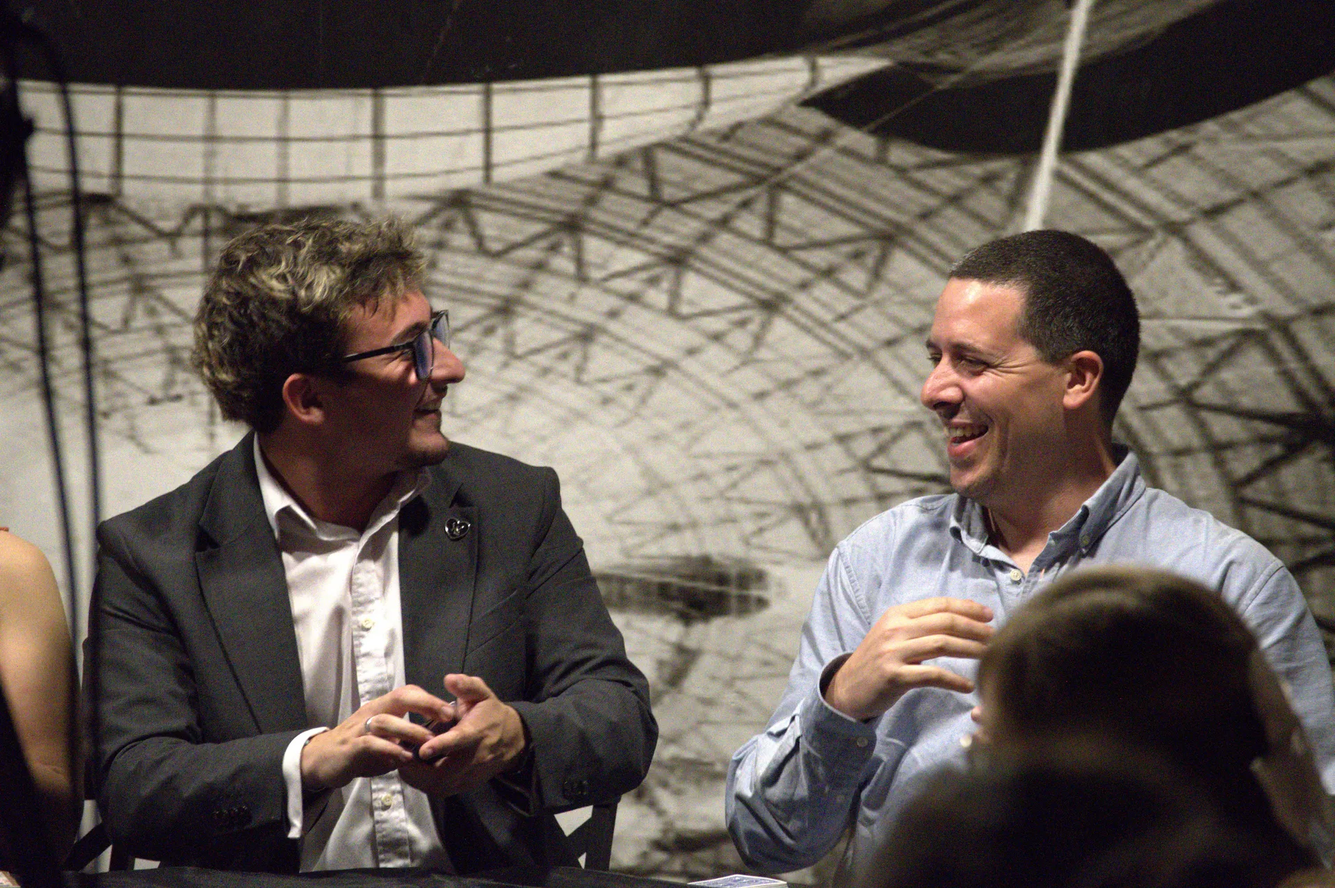
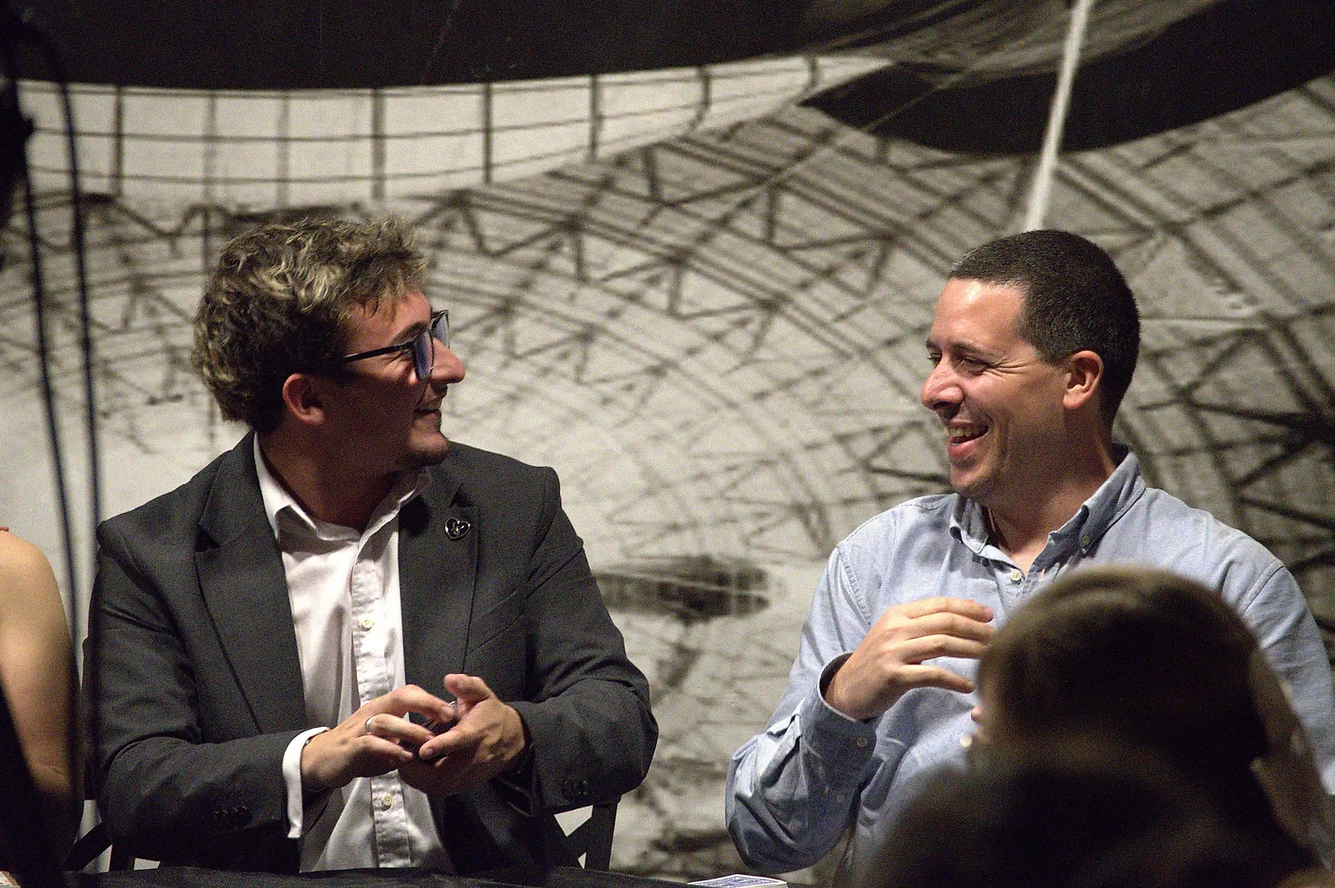
fix(galeria): corregir proporciones de aspecto reales y realzar nitidez de fotos

Changed region(s): [[0.5312, 0.9765, 0.5938, 1.0]]

diff --git a/app/galeria/page.jsx b/app/galeria/page.jsx
@@ -28,7 +28,7 @@ const images = [
     {
         src: '/images/evento-angel-ruiz-magia.webp',
         alt: 'El ilusionista Ángel Ruiz realizando un espectáculo de magia corporativa para empresas en Madrid',
-        aspect: 'aspect-[3/4]'
+        aspect: 'aspect-[3/2]'
     },
     {
         src: '/images/mago-bodas-cocktail-exterior-madrid.webp',
@@ -38,12 +38,12 @@ const images = [
     {
         src: '/images/angel-ruiz-mago-corporativo.webp',
         alt: 'El mago Ángel Ruiz interactuando de cerca con asistentes en un evento corporativo',
-        aspect: 'aspect-[4/5]'
+        aspect: 'aspect-[3/2]'
     },
     {
         src: '/images/espectaculo-magia-madrid.webp',
         alt: 'Impresionante momento de gran formato en un espectáculo de magia en vivo en Madrid',
-        aspect: 'aspect-video'
+        aspect: 'aspect-[3/2]'
     },
     {
         src: '/images/show-magia-directo-escenario-madrid.webp',
@@ -53,12 +53,12 @@ const images = [
     {
         src: '/images/magia-corporativa-angel-ruiz.webp',
         alt: 'Magia de cerca premium por Ángel Ruiz cautivando a invitados en un evento exclusivo',
-        aspect: 'aspect-[4/3]'
+        aspect: 'aspect-[3/2]'
     },
     {
         src: '/images/angel-ruiz-mago-madrid.webp',
         alt: 'Retrato profesional del mago Ángel Ruiz durante una actuación en Madrid',
-        aspect: 'aspect-square'
+        aspect: 'aspect-[3/2]'
     },
     {
         src: '/images/ilusionista-cocktail-jardin-madrid.webp',
@@ -73,7 +73,7 @@ const images = [
     {
         src: '/images/reacciones-magia-empresas.webp',
         alt: 'Caras de asombro y aplausos durante un espectáculo de magia para empresas',
-        aspect: 'aspect-[4/3]'
+        aspect: 'aspect-[3/2]'
     },
     {
         src: '/images/cartomagia-de-cerca-angel-ruiz.webp',
@@ -89,12 +89,12 @@ const images = [
     {
         src: '/images/ilusionista-madrid-closeup.webp',
         alt: 'Invitada sonriendo ante la magia close-up del ilusionista madrileño Ángel Ruiz',
-        aspect: 'aspect-[3/4]'
+        aspect: 'aspect-[3/2]'
     },
     {
         src: '/images/mago-para-eventos-empresa-madrid.webp',
         alt: 'Presentación impactante del mago Ángel Ruiz en un evento de empresa en Madrid',
-        aspect: 'aspect-square'
+        aspect: 'aspect-[3/2]'
     },
     {
         src: '/images/magia-al-aire-libre-eventos-madrid.webp',
@@ -104,17 +104,17 @@ const images = [
     {
         src: '/images/cartomagia-angel-ruiz.webp',
         alt: 'Primer plano de las manos de Ángel Ruiz realizando cartomagia de autor de cerca',
-        aspect: 'aspect-[4/5]'
+        aspect: 'aspect-[3/2]'
     },
     {
         src: '/images/mago-bodas-madrid-eventos.webp',
         alt: 'Magia romántica y elegante durante el cóctel de una boda exclusiva en Madrid',
-        aspect: 'aspect-[4/3]'
+        aspect: 'aspect-[3/2]'
     },
     {
         src: '/images/mago-madrid-evento-privado.webp',
         alt: 'Ángel Ruiz sorprendiendo a un grupo reducido en un evento privado en Madrid',
-        aspect: 'aspect-[4/5]'
+        aspect: 'aspect-[3/2]'
     },
     {
         src: '/images/sesion-cartomagia-teatro-angel-ruiz.webp',
@@ -124,22 +124,22 @@ const images = [
     {
         src: '/images/magia-comuniones-madrid.webp',
         alt: 'El mago Ángel Ruiz realizando trucos de magia infantil y familiar en una comunión en Madrid',
-        aspect: 'aspect-[3/4]'
+        aspect: 'aspect-[3/2]'
     },
     {
         src: '/images/magia-cocktail-empresa-madrid.webp',
         alt: 'El ilusionista Ángel Ruiz realizando magia de cóctel entre los invitados de una empresa en Madrid',
-        aspect: 'aspect-video'
+        aspect: 'aspect-[3/2]'
     },
     {
         src: '/images/angel-ruiz-evento.webp',
         alt: 'Mesa rodeada de espectadores durante una demostración de magia de salón por Ángel Ruiz',
-        aspect: 'aspect-square'
+        aspect: 'aspect-[3/2]'
     },
     {
         src: '/images/ilusionista-profesional-madrid.webp',
         alt: 'El ilusionista profesional Ángel Ruiz posando con su baraja de cartas en Madrid',
-        aspect: 'aspect-[4/3]'
+        aspect: 'aspect-[3/2]'
     },
     {
         src: '/images/experiencia-magica-interactiva-publico.webp',
@@ -149,7 +149,7 @@ const images = [
     {
         src: '/images/mejor-mago-eventos-corporativos.webp',
         alt: 'Momentos de participación del público en un show de magia para eventos corporativos',
-        aspect: 'aspect-[4/5]'
+        aspect: 'aspect-[3/2]'
     },
     {
         src: '/images/mago-para-bodas-en-madrid.webp',
@@ -159,12 +159,12 @@ const images = [
     {
         src: '/images/magia-eventos-cocktail.webp',
         alt: 'Invitados riendo durante una sesión de magia interactiva en un cóctel',
-        aspect: 'aspect-[3/4]'
+        aspect: 'aspect-[3/2]'
     },
     {
         src: '/images/ilusionista-eventos-madrid-fotos.webp',
         alt: 'Ángel Ruiz demostrando su habilidad como ilusionista profesional en un evento madrileño',
-        aspect: 'aspect-[3/4]'
+        aspect: 'aspect-[3/2]'
     },
     {
         src: '/images/mago-profesional-eventos-madrid.webp',
@@ -174,7 +174,7 @@ const images = [
     {
         src: '/images/evento-empresa-mago-angel-ruiz.webp',
         alt: 'Efecto de ilusionismo visual en una gala corporativa para empresas en Madrid',
-        aspect: 'aspect-video'
+        aspect: 'aspect-[3/2]'
     },
     {
         src: '/images/mago-empresas-madrid-eventos.webp',
@@ -184,17 +184,17 @@ const images = [
     {
         src: '/images/ilusionista-eventos-empresa-madrid.webp',
         alt: 'Momento mágico que conecta a los empleados durante un evento de empresa en Madrid',
-        aspect: 'aspect-[4/3]'
+        aspect: 'aspect-[3/2]'
     },
     {
         src: '/images/angel-ruiz-mago-profesional-madrid.webp',
         alt: 'Perfil del mago madrileño Ángel Ruiz interactuando con su audiencia',
-        aspect: 'aspect-[3/4]'
+        aspect: 'aspect-[2/3]'
     },
     {
         src: '/images/angel-ruiz-mago-eventos-madrid.webp',
         alt: 'Espectáculo de magia elegante y exclusiva por Ángel Ruiz en Madrid',
-        aspect: 'aspect-[4/3]'
+        aspect: 'aspect-[3/2]'
     }
 ];
 
@@ -243,8 +243,9 @@ export default function GaleriaPage() {
                                     src={img.src}
                                     alt={img.alt}
                                     fill
+                                    quality={90}
                                     className={`object-cover transition-transform duration-1000 group-hover:scale-110 ${img.position || ''}`}
-                                    sizes="(max-width: 768px) 50vw, (max-width: 1200px) 33vw, 25vw"
+                                    sizes="(max-width: 768px) 50vw, (max-width: 1200px) 50vw, 33vw"
                                     priority={idx < 6}
                                 />
 
